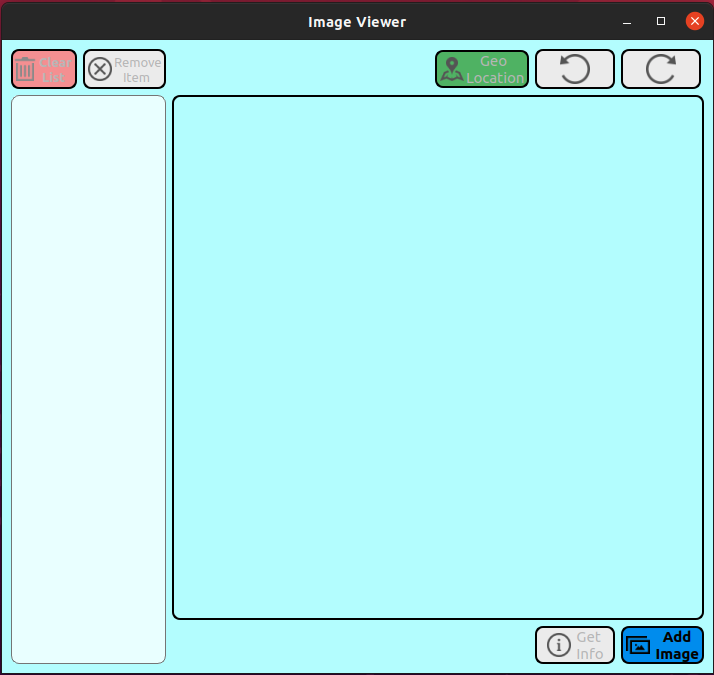
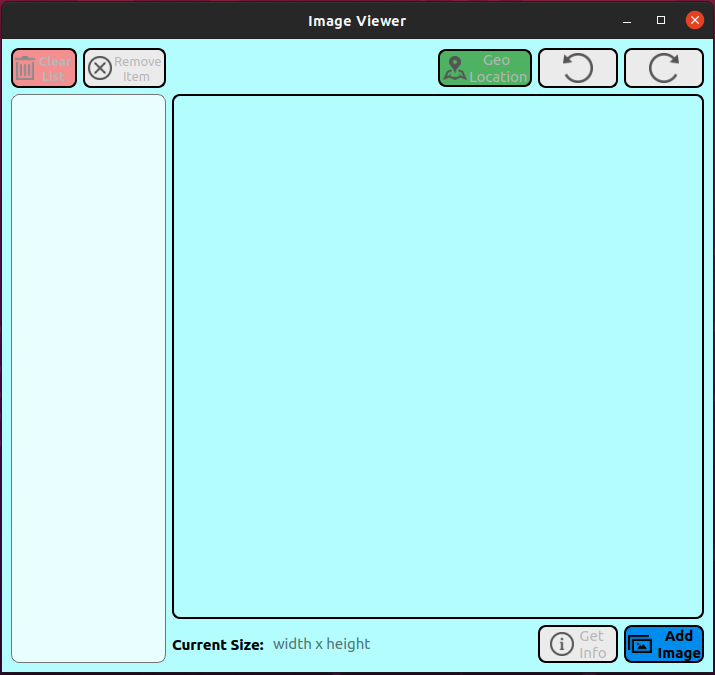
Small changes

diff --git a/Ui_ImageViewer.py b/Ui_ImageViewer.py
@@ -17,10 +17,57 @@ class Ui_ImageViewer(object):
         ImageViewer.resize(711, 633)
         ImageViewer.setMinimumSize(QtCore.QSize(711, 633))
         ImageViewer.setStyleSheet("background-color: #c3fdff;")
+        ImageViewer.setTabShape(QtWidgets.QTabWidget.Rounded)
         self.centralwidget = QtWidgets.QWidget(ImageViewer)
         self.centralwidget.setObjectName("centralwidget")
         self.gridLayout = QtWidgets.QGridLayout(self.centralwidget)
         self.gridLayout.setObjectName("gridLayout")
+        self.get_info_btn = QtWidgets.QPushButton(self.centralwidget)
+        self.get_info_btn.setEnabled(False)
+        sizePolicy = QtWidgets.QSizePolicy(QtWidgets.QSizePolicy.Minimum, QtWidgets.QSizePolicy.Maximum)
+        sizePolicy.setHorizontalStretch(0)
+        sizePolicy.setVerticalStretch(0)
+        sizePolicy.setHeightForWidth(self.get_info_btn.sizePolicy().hasHeightForWidth())
+        self.get_info_btn.setSizePolicy(sizePolicy)
+        self.get_info_btn.setMinimumSize(QtCore.QSize(70, 0))
+        self.get_info_btn.setMaximumSize(QtCore.QSize(90, 16777215))
+        self.get_info_btn.setStyleSheet("QPushButton{\n"
+"background-color: #eeeeee;\n"
+"border-radius: 8px;\n"
+"border: 1.5px solid;\n"
+"padding-left: 3px;\n"
+"}\n"
+"\n"
+"QPushButton:hover{\n"
+"background-color: #ffffff;\n"
+"}\n"
+"\n"
+"QPushButton:pressed{\n"
+"background-color: #aeaeae;\n"
+"}")
+        icon = QtGui.QIcon()
+        icon.addPixmap(QtGui.QPixmap("Icons/info_icon.png"), QtGui.QIcon.Normal, QtGui.QIcon.Off)
+        self.get_info_btn.setIcon(icon)
+        self.get_info_btn.setIconSize(QtCore.QSize(24, 24))
+        self.get_info_btn.setObjectName("get_info_btn")
+        self.gridLayout.addWidget(self.get_info_btn, 2, 9, 1, 1)
+        spacerItem = QtWidgets.QSpacerItem(40, 20, QtWidgets.QSizePolicy.Minimum, QtWidgets.QSizePolicy.Minimum)
+        self.gridLayout.addItem(spacerItem, 0, 2, 1, 6)
+        self.image_size_lineEdit = QtWidgets.QLineEdit(self.centralwidget)
+        sizePolicy = QtWidgets.QSizePolicy(QtWidgets.QSizePolicy.Fixed, QtWidgets.QSizePolicy.Fixed)
+        sizePolicy.setHorizontalStretch(0)
+        sizePolicy.setVerticalStretch(0)
+        sizePolicy.setHeightForWidth(self.image_size_lineEdit.sizePolicy().hasHeightForWidth())
+        self.image_size_lineEdit.setSizePolicy(sizePolicy)
+        self.image_size_lineEdit.setMinimumSize(QtCore.QSize(0, 0))
+        self.image_size_lineEdit.setMaximumSize(QtCore.QSize(120, 16777215))
+        self.image_size_lineEdit.setStyleSheet("border: 1px solid #c3fdff;\n"
+"border-radius: 4px;")
+        self.image_size_lineEdit.setText("")
+        self.image_size_lineEdit.setAlignment(QtCore.Qt.AlignLeading|QtCore.Qt.AlignLeft|QtCore.Qt.AlignVCenter)
+        self.image_size_lineEdit.setReadOnly(True)
+        self.image_size_lineEdit.setObjectName("image_size_lineEdit")
+        self.gridLayout.addWidget(self.image_size_lineEdit, 2, 3, 1, 1)
         self.left_rotate_btn = QtWidgets.QPushButton(self.centralwidget)
         self.left_rotate_btn.setEnabled(False)
         sizePolicy = QtWidgets.QSizePolicy(QtWidgets.QSizePolicy.Fixed, QtWidgets.QSizePolicy.Minimum)
@@ -46,12 +93,12 @@ class Ui_ImageViewer(object):
 "background-color: #aeaeae;\n"
 "}")
         self.left_rotate_btn.setText("")
-        icon = QtGui.QIcon()
-        icon.addPixmap(QtGui.QPixmap("Icons/left_rotate_icon.png"), QtGui.QIcon.Normal, QtGui.QIcon.Off)
-        self.left_rotate_btn.setIcon(icon)
+        icon1 = QtGui.QIcon()
+        icon1.addPixmap(QtGui.QPixmap("Icons/left_rotate_icon.png"), QtGui.QIcon.Normal, QtGui.QIcon.Off)
+        self.left_rotate_btn.setIcon(icon1)
         self.left_rotate_btn.setIconSize(QtCore.QSize(30, 30))
         self.left_rotate_btn.setObjectName("left_rotate_btn")
-        self.gridLayout.addWidget(self.left_rotate_btn, 0, 10, 1, 1)
+        self.gridLayout.addWidget(self.left_rotate_btn, 0, 9, 1, 1)
         self.right_rotate_btn = QtWidgets.QPushButton(self.centralwidget)
         self.right_rotate_btn.setEnabled(False)
         sizePolicy = QtWidgets.QSizePolicy(QtWidgets.QSizePolicy.Fixed, QtWidgets.QSizePolicy.Minimum)
@@ -77,12 +124,12 @@ class Ui_ImageViewer(object):
 "background-color: #aeaeae;\n"
 "}")
         self.right_rotate_btn.setText("")
-        icon1 = QtGui.QIcon()
-        icon1.addPixmap(QtGui.QPixmap("Icons/right_rotate_icon.png"), QtGui.QIcon.Normal, QtGui.QIcon.Off)
-        self.right_rotate_btn.setIcon(icon1)
+        icon2 = QtGui.QIcon()
+        icon2.addPixmap(QtGui.QPixmap("Icons/right_rotate_icon.png"), QtGui.QIcon.Normal, QtGui.QIcon.Off)
+        self.right_rotate_btn.setIcon(icon2)
         self.right_rotate_btn.setIconSize(QtCore.QSize(30, 30))
         self.right_rotate_btn.setObjectName("right_rotate_btn")
-        self.gridLayout.addWidget(self.right_rotate_btn, 0, 11, 1, 1)
+        self.gridLayout.addWidget(self.right_rotate_btn, 0, 10, 1, 1)
         self.clear_list_btn = QtWidgets.QPushButton(self.centralwidget)
         self.clear_list_btn.setEnabled(False)
         sizePolicy = QtWidgets.QSizePolicy(QtWidgets.QSizePolicy.Fixed, QtWidgets.QSizePolicy.Minimum)
@@ -108,41 +155,33 @@ class Ui_ImageViewer(object):
 "QPushButton:pressed{\n"
 "background-color: #ba6b6c;\n"
 "}")
-        icon2 = QtGui.QIcon()
-        icon2.addPixmap(QtGui.QPixmap("Icons/clear_icon.png"), QtGui.QIcon.Normal, QtGui.QIcon.Off)
-        self.clear_list_btn.setIcon(icon2)
+        icon3 = QtGui.QIcon()
+        icon3.addPixmap(QtGui.QPixmap("Icons/clear_icon.png"), QtGui.QIcon.Normal, QtGui.QIcon.Off)
+        self.clear_list_btn.setIcon(icon3)
         self.clear_list_btn.setIconSize(QtCore.QSize(24, 24))
         self.clear_list_btn.setObjectName("clear_list_btn")
         self.gridLayout.addWidget(self.clear_list_btn, 0, 0, 1, 1)
-        self.get_info_btn = QtWidgets.QPushButton(self.centralwidget)
-        self.get_info_btn.setEnabled(False)
-        sizePolicy = QtWidgets.QSizePolicy(QtWidgets.QSizePolicy.Minimum, QtWidgets.QSizePolicy.Maximum)
+        self.image_viewer_list = QtWidgets.QListWidget(self.centralwidget)
+        sizePolicy = QtWidgets.QSizePolicy(QtWidgets.QSizePolicy.Fixed, QtWidgets.QSizePolicy.MinimumExpanding)
         sizePolicy.setHorizontalStretch(0)
         sizePolicy.setVerticalStretch(0)
-        sizePolicy.setHeightForWidth(self.get_info_btn.sizePolicy().hasHeightForWidth())
-        self.get_info_btn.setSizePolicy(sizePolicy)
-        self.get_info_btn.setMinimumSize(QtCore.QSize(70, 0))
-        self.get_info_btn.setMaximumSize(QtCore.QSize(90, 16777215))
-        self.get_info_btn.setStyleSheet("QPushButton{\n"
-"background-color: #eeeeee;\n"
-"border-radius: 8px;\n"
-"border: 1.5px solid;\n"
-"padding-left: 3px;\n"
-"}\n"
-"\n"
-"QPushButton:hover{\n"
-"background-color: #ffffff;\n"
-"}\n"
-"\n"
-"QPushButton:pressed{\n"
-"background-color: #aeaeae;\n"
-"}")
-        icon3 = QtGui.QIcon()
-        icon3.addPixmap(QtGui.QPixmap("Icons/info_icon.png"), QtGui.QIcon.Normal, QtGui.QIcon.Off)
-        self.get_info_btn.setIcon(icon3)
-        self.get_info_btn.setIconSize(QtCore.QSize(24, 24))
-        self.get_info_btn.setObjectName("get_info_btn")
-        self.gridLayout.addWidget(self.get_info_btn, 2, 10, 1, 1)
+        sizePolicy.setHeightForWidth(self.image_viewer_list.sizePolicy().hasHeightForWidth())
+        self.image_viewer_list.setSizePolicy(sizePolicy)
+        self.image_viewer_list.setMinimumSize(QtCore.QSize(120, 0))
+        font = QtGui.QFont()
+        font.setPointSize(11)
+        self.image_viewer_list.setFont(font)
+        self.image_viewer_list.setLayoutDirection(QtCore.Qt.LeftToRight)
+        self.image_viewer_list.setStyleSheet("background-color: #eeffff;\n"
+"border: 1px solid gray;\n"
+"border-radius: 8px;")
+        self.image_viewer_list.setLineWidth(0)
+        self.image_viewer_list.setMidLineWidth(0)
+        self.image_viewer_list.setIconSize(QtCore.QSize(100, 100))
+        self.image_viewer_list.setSelectionRectVisible(False)
+        self.image_viewer_list.setItemAlignment(QtCore.Qt.AlignHCenter)
+        self.image_viewer_list.setObjectName("image_viewer_list")
+        self.gridLayout.addWidget(self.image_viewer_list, 1, 0, 2, 2)
         self.remove_item_btn = QtWidgets.QPushButton(self.centralwidget)
         self.remove_item_btn.setEnabled(False)
         sizePolicy = QtWidgets.QSizePolicy(QtWidgets.QSizePolicy.Fixed, QtWidgets.QSizePolicy.Minimum)
@@ -173,6 +212,47 @@ class Ui_ImageViewer(object):
         self.remove_item_btn.setIconSize(QtCore.QSize(24, 24))
         self.remove_item_btn.setObjectName("remove_item_btn")
         self.gridLayout.addWidget(self.remove_item_btn, 0, 1, 1, 1)
+        self.geo_location_btn = QtWidgets.QPushButton(self.centralwidget)
+        self.geo_location_btn.setEnabled(False)
+        sizePolicy = QtWidgets.QSizePolicy(QtWidgets.QSizePolicy.Fixed, QtWidgets.QSizePolicy.Maximum)
+        sizePolicy.setHorizontalStretch(0)
+        sizePolicy.setVerticalStretch(0)
+        sizePolicy.setHeightForWidth(self.geo_location_btn.sizePolicy().hasHeightForWidth())
+        self.geo_location_btn.setSizePolicy(sizePolicy)
+        self.geo_location_btn.setStyleSheet("QPushButton{\n"
+"background-color: #66bb6a;\n"
+"border-radius: 8px;\n"
+"border: 1.5px solid;\n"
+"padding-left: 3px;\n"
+"}\n"
+"\n"
+"QPushButton:hover{\n"
+"background-color: #98ee99;\n"
+"}\n"
+"\n"
+"QPushButton:pressed{\n"
+"background-color: #338a3e;\n"
+"}")
+        icon5 = QtGui.QIcon()
+        icon5.addPixmap(QtGui.QPixmap("Icons/location_icon.png"), QtGui.QIcon.Normal, QtGui.QIcon.Off)
+        self.geo_location_btn.setIcon(icon5)
+        self.geo_location_btn.setIconSize(QtCore.QSize(24, 24))
+        self.geo_location_btn.setObjectName("geo_location_btn")
+        self.gridLayout.addWidget(self.geo_location_btn, 0, 8, 1, 1)
+        self.image_viewer = QtWidgets.QLabel(self.centralwidget)
+        sizePolicy = QtWidgets.QSizePolicy(QtWidgets.QSizePolicy.Ignored, QtWidgets.QSizePolicy.Ignored)
+        sizePolicy.setHorizontalStretch(0)
+        sizePolicy.setVerticalStretch(0)
+        sizePolicy.setHeightForWidth(self.image_viewer.sizePolicy().hasHeightForWidth())
+        self.image_viewer.setSizePolicy(sizePolicy)
+        self.image_viewer.setMinimumSize(QtCore.QSize(522, 522))
+        self.image_viewer.setStyleSheet("border: 2px solid black;\n"
+"border-radius: 8px;")
+        self.image_viewer.setText("")
+        self.image_viewer.setScaledContents(False)
+        self.image_viewer.setAlignment(QtCore.Qt.AlignCenter)
+        self.image_viewer.setObjectName("image_viewer")
+        self.gridLayout.addWidget(self.image_viewer, 1, 2, 1, 9)
         self.add_image_btn = QtWidgets.QPushButton(self.centralwidget)
         sizePolicy = QtWidgets.QSizePolicy(QtWidgets.QSizePolicy.Minimum, QtWidgets.QSizePolicy.Minimum)
         sizePolicy.setHorizontalStretch(0)
@@ -199,76 +279,22 @@ class Ui_ImageViewer(object):
 "QPushButton:pressed{\n"
 "background-color: #0069c0;\n"
 "}")
-        icon5 = QtGui.QIcon()
-        icon5.addPixmap(QtGui.QPixmap("Icons/image_icon.png"), QtGui.QIcon.Normal, QtGui.QIcon.Off)
-        self.add_image_btn.setIcon(icon5)
+        icon6 = QtGui.QIcon()
+        icon6.addPixmap(QtGui.QPixmap("Icons/image_icon.png"), QtGui.QIcon.Normal, QtGui.QIcon.Off)
+        self.add_image_btn.setIcon(icon6)
         self.add_image_btn.setIconSize(QtCore.QSize(24, 24))
         self.add_image_btn.setObjectName("add_image_btn")
-        self.gridLayout.addWidget(self.add_image_btn, 2, 11, 1, 1)
-        self.geo_location_btn = QtWidgets.QPushButton(self.centralwidget)
-        self.geo_location_btn.setEnabled(False)
-        sizePolicy = QtWidgets.QSizePolicy(QtWidgets.QSizePolicy.Fixed, QtWidgets.QSizePolicy.Maximum)
-        sizePolicy.setHorizontalStretch(0)
-        sizePolicy.setVerticalStretch(0)
-        sizePolicy.setHeightForWidth(self.geo_location_btn.sizePolicy().hasHeightForWidth())
-        self.geo_location_btn.setSizePolicy(sizePolicy)
-        self.geo_location_btn.setStyleSheet("QPushButton{\n"
-"background-color: #66bb6a;\n"
-"border-radius: 8px;\n"
-"border: 1.5px solid;\n"
-"padding-left: 3px;\n"
-"}\n"
-"\n"
-"QPushButton:hover{\n"
-"background-color: #98ee99;\n"
-"}\n"
-"\n"
-"QPushButton:pressed{\n"
-"background-color: #338a3e;\n"
-"}")
-        icon6 = QtGui.QIcon()
-        icon6.addPixmap(QtGui.QPixmap("Icons/location_icon.png"), QtGui.QIcon.Normal, QtGui.QIcon.Off)
-        self.geo_location_btn.setIcon(icon6)
-        self.geo_location_btn.setIconSize(QtCore.QSize(24, 24))
-        self.geo_location_btn.setObjectName("geo_location_btn")
-        self.gridLayout.addWidget(self.geo_location_btn, 0, 9, 1, 1)
-        spacerItem = QtWidgets.QSpacerItem(40, 20, QtWidgets.QSizePolicy.Minimum, QtWidgets.QSizePolicy.Minimum)
-        self.gridLayout.addItem(spacerItem, 0, 2, 1, 7)
-        self.image_viewer_list = QtWidgets.QListWidget(self.centralwidget)
-        sizePolicy = QtWidgets.QSizePolicy(QtWidgets.QSizePolicy.Fixed, QtWidgets.QSizePolicy.MinimumExpanding)
-        sizePolicy.setHorizontalStretch(0)
-        sizePolicy.setVerticalStretch(0)
-        sizePolicy.setHeightForWidth(self.image_viewer_list.sizePolicy().hasHeightForWidth())
-        self.image_viewer_list.setSizePolicy(sizePolicy)
-        self.image_viewer_list.setMinimumSize(QtCore.QSize(120, 0))
+        self.gridLayout.addWidget(self.add_image_btn, 2, 10, 1, 1)
+        self.image_size_label = QtWidgets.QLabel(self.centralwidget)
         font = QtGui.QFont()
-        font.setPointSize(11)
-        self.image_viewer_list.setFont(font)
-        self.image_viewer_list.setLayoutDirection(QtCore.Qt.LeftToRight)
-        self.image_viewer_list.setStyleSheet("background-color: #eeffff;\n"
-"border: 1px solid gray;\n"
-"border-radius: 8px;")
-        self.image_viewer_list.setLineWidth(0)
-        self.image_viewer_list.setMidLineWidth(0)
-        self.image_viewer_list.setIconSize(QtCore.QSize(100, 100))
-        self.image_viewer_list.setSelectionRectVisible(False)
-        self.image_viewer_list.setItemAlignment(QtCore.Qt.AlignHCenter)
-        self.image_viewer_list.setObjectName("image_viewer_list")
-        self.gridLayout.addWidget(self.image_viewer_list, 1, 0, 2, 2)
-        self.image_viewer = QtWidgets.QLabel(self.centralwidget)
-        sizePolicy = QtWidgets.QSizePolicy(QtWidgets.QSizePolicy.Ignored, QtWidgets.QSizePolicy.Ignored)
-        sizePolicy.setHorizontalStretch(0)
-        sizePolicy.setVerticalStretch(0)
-        sizePolicy.setHeightForWidth(self.image_viewer.sizePolicy().hasHeightForWidth())
-        self.image_viewer.setSizePolicy(sizePolicy)
-        self.image_viewer.setMinimumSize(QtCore.QSize(522, 522))
-        self.image_viewer.setStyleSheet("border: 2px solid black;\n"
-"border-radius: 8px;")
-        self.image_viewer.setText("")
-        self.image_viewer.setScaledContents(False)
-        self.image_viewer.setAlignment(QtCore.Qt.AlignCenter)
-        self.image_viewer.setObjectName("image_viewer")
-        self.gridLayout.addWidget(self.image_viewer, 1, 2, 1, 10)
+        font.setBold(True)
+        font.setUnderline(False)
+        font.setWeight(75)
+        self.image_size_label.setFont(font)
+        self.image_size_label.setObjectName("image_size_label")
+        self.gridLayout.addWidget(self.image_size_label, 2, 2, 1, 1)
+        spacerItem1 = QtWidgets.QSpacerItem(40, 20, QtWidgets.QSizePolicy.Expanding, QtWidgets.QSizePolicy.Minimum)
+        self.gridLayout.addItem(spacerItem1, 2, 4, 1, 1)
         ImageViewer.setCentralWidget(self.centralwidget)
 
         self.retranslateUi(ImageViewer)
@@ -278,13 +304,15 @@ class Ui_ImageViewer(object):
     def retranslateUi(self, ImageViewer):
         _translate = QtCore.QCoreApplication.translate
         ImageViewer.setWindowTitle(_translate("ImageViewer", "Image Viewer"))
-        self.clear_list_btn.setText(_translate("ImageViewer", "Clear\n"
-" List"))
         self.get_info_btn.setText(_translate("ImageViewer", " Get\n"
 " Info"))
+        self.image_size_lineEdit.setPlaceholderText(_translate("ImageViewer", "width x height"))
+        self.clear_list_btn.setText(_translate("ImageViewer", "Clear\n"
+" List"))
         self.remove_item_btn.setText(_translate("ImageViewer", "Remove \n"
 "   Item"))
-        self.add_image_btn.setText(_translate("ImageViewer", "   Add\n"
-" Image"))
         self.geo_location_btn.setText(_translate("ImageViewer", "    Geo\n"
 "Location"))
+        self.add_image_btn.setText(_translate("ImageViewer", "   Add\n"
+" Image"))
+        self.image_size_label.setText(_translate("ImageViewer", "Current Size:"))

diff --git a/ImageViewer.py b/ImageViewer.py
@@ -88,12 +88,15 @@ class ImageViewer(QMainWindow):
             self.ui.image_viewer.setPixmap(
                 self.qpix.scaled(QSize(max(width, 512), max(height, 512)), Qt.KeepAspectRatio, Qt.SmoothTransformation))
 
-            # To print in terminal the image size.
+            # To print the image size.
             image_width = self.qpix.scaled(QSize(max(width, 512), max(height, 512)), Qt.KeepAspectRatio,
                                            Qt.SmoothTransformation).width()
             image_height = self.qpix.scaled(QSize(max(width, 512), max(height, 512)), Qt.KeepAspectRatio,
                                             Qt.SmoothTransformation).height()
             print("• Image Size: " + str(image_width) + "px " + "X " + str(image_height) + "px")
+
+            image_size_str = str(str(image_width) + ' x ' + str(image_height))
+            self.ui.image_size_lineEdit.setText(image_size_str)
 
         elif self._model.current_image and self.isRotated:
             width = self.ui.image_viewer.width() - 40
@@ -101,16 +104,20 @@ class ImageViewer(QMainWindow):
             self.ui.image_viewer.setPixmap(
                 self.qpix.scaled(QSize(max(width, 512), max(height, 512)), Qt.KeepAspectRatio, Qt.SmoothTransformation))
 
-            # To print in terminal the image size.
+            # To print the image size.
             image_width = self.qpix.scaled(QSize(max(width, 512), max(height, 512)), Qt.KeepAspectRatio,
                                            Qt.SmoothTransformation).width()
             image_height = self.qpix.scaled(QSize(max(width, 512), max(height, 512)), Qt.KeepAspectRatio,
                                             Qt.SmoothTransformation).height()
             print("• Image Size: " + str(image_width) + "px " + "X " + str(image_height) + "px")
 
+            image_size_str = str(str(image_width) + ' x ' + str(image_height))
+            self.ui.image_size_lineEdit.setText(image_size_str)
+
         elif not self._model.current_image:
             self.qpix = QPixmap()
             self.ui.image_viewer.setPixmap(self.qpix)
+            self.ui.image_size_lineEdit.setText('')
             self.ui.get_info_btn.setEnabled(False)
             self.ui.left_rotate_btn.setEnabled(False)
             self.ui.right_rotate_btn.setEnabled(False)
